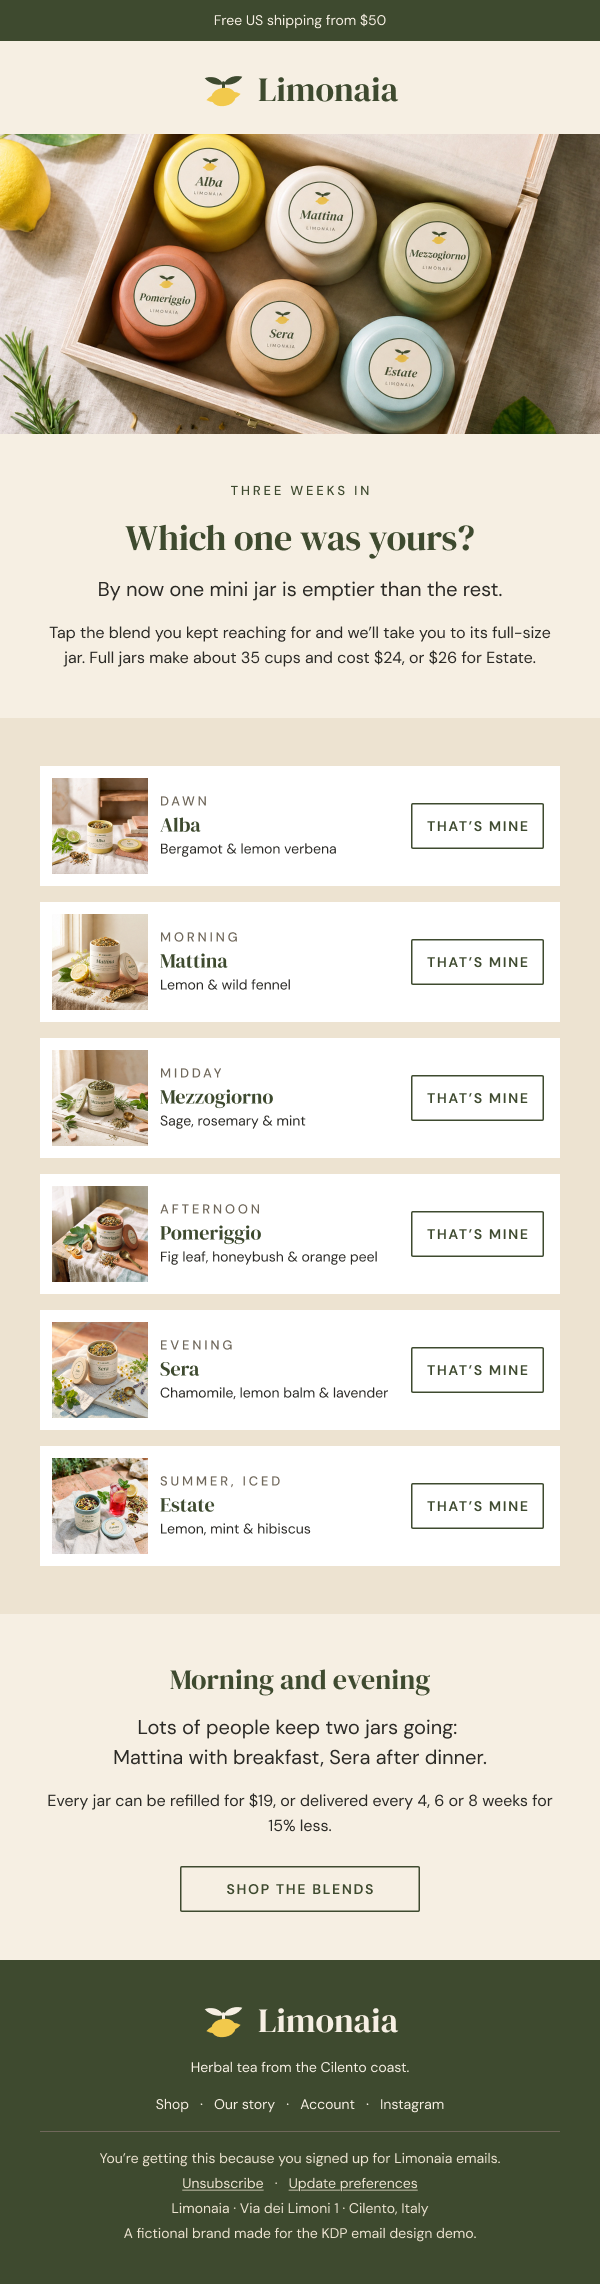
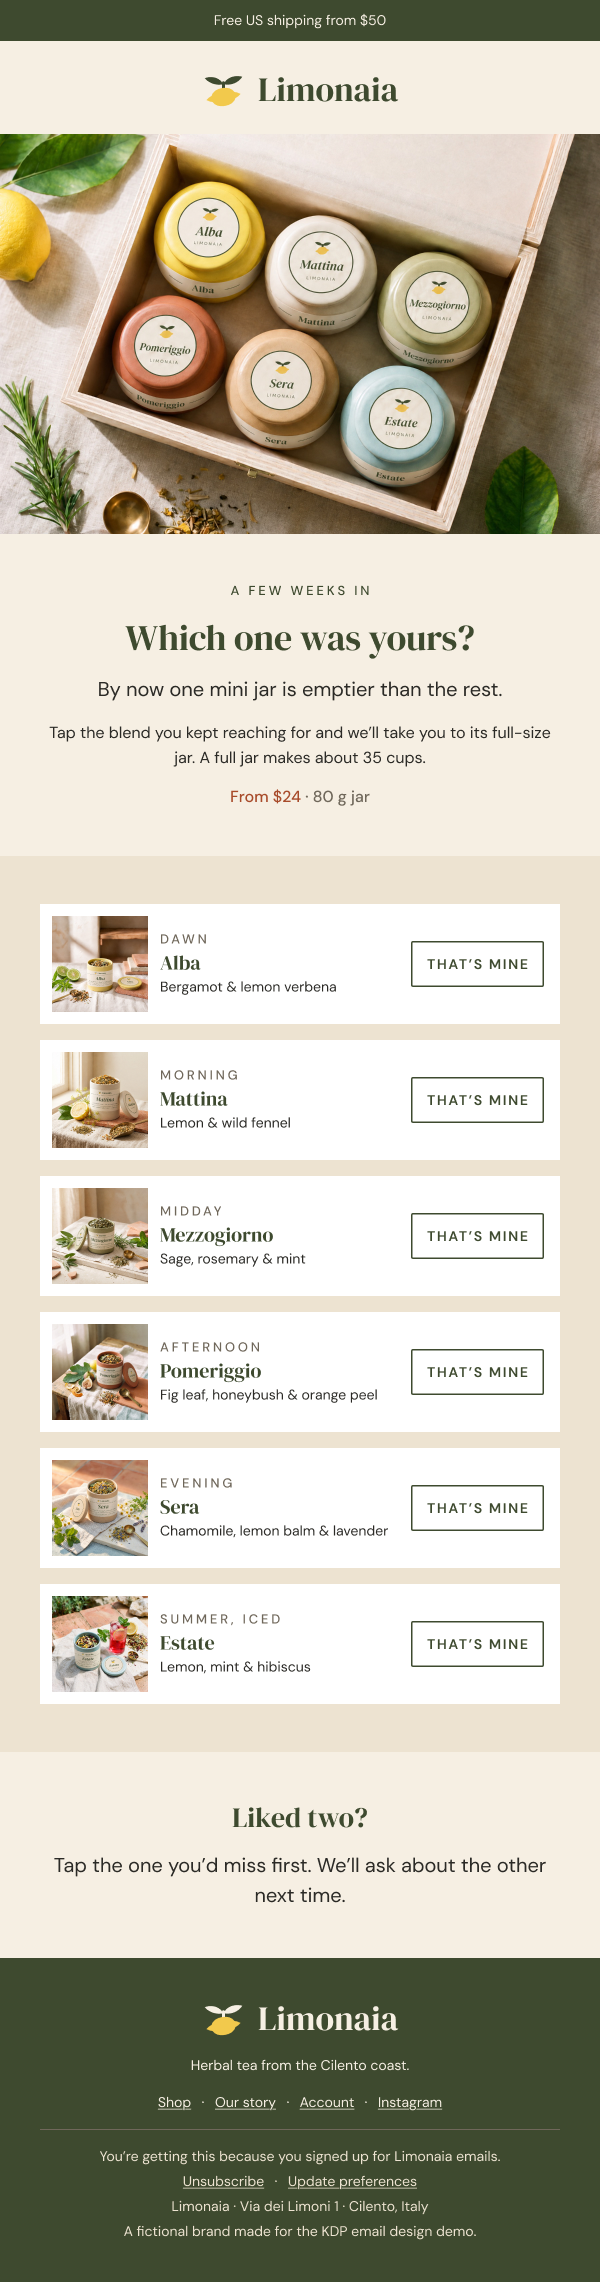
Third blind review and fixes: 79, 77, 74, 79
- Third review scored Welcome 79, Discovery 77, Refill 74, Natale 79.
  Each failed at most one narrow gate; all three are fixed:
  - Natale: the deadline heading names the US, UK date drawn as its own
    top bar variant
  - Discovery: mini jars in the discovery-set photo now carry band labels
  - Refill: off-season branch drawn (Estate to Mezzogiorno, Natale to
    Pomeriggio), seasonal blends never on subscription
- Refill simplified so each offer appears once; Welcome hero swaps
  between six jars (May to September) and five (October to April).
- Footer links rebuilt as underlined link rows; prices keep the unit in
  stone; non-breaking spaces and drawn long-name states.
- EMAIL.md: discovery-set exception, subscription rules, the extra hero.
- Corrections: rules promoted from the third review.

diff --git a/examples/limonaia/EMAIL.md b/examples/limonaia/EMAIL.md
@@ -32,15 +32,16 @@ Limonaia is a fictional brand. Use this file as a model for your own.
 | Sera (evening) | Chamomile, lemon balm, lavender | Warm sand | 80 g jar | $24 | |
 | Estate (summer, iced) | Lemon, mint, hibiscus | Pale sea blue | 80 g jar | $26 | **Seasonal, May to September** |
 | Natale (winter) | Clementine, cinnamon | Deep cinnamon red | 80 g jar | $24 | **Seasonal, November to December**, sold mostly in the gift box |
-| Refill pouch | Any blend, no jar | Paper pouch | 80 g | $19 | |
-| Discovery set | Six 15 g mini jars | All six | 90 g | $32 | The usual first purchase |
+| Refill pouch | Any blend, no jar | Paper pouch | 80 g | $19 | Estate and Natale only in season |
+| Discovery set | Six 15 g mini jars | All six | 90 g | $32 | The usual first purchase. All six minis all year, Estate included: the one exception to the seasonal rule |
 | Gift box | Three jars, a wooden box, a card | Buyer's choice | 240 g | $68 | |
-| Subscription | Any jar or refill every 4, 6 or 8 weeks | Any | Varies | 15% off | |
+| Subscription | A jar or refill of a year-round blend every 4, 6 or 8 weeks | Any | Varies | 15% off | Year-round blends only. Skip or cancel any time |
 
 - A full jar makes about 35 cups, so a daily drinker runs out in about five weeks. Every refill
   email is timed to that.
 - Free US shipping from $50.
-- Any email that runs all year needs an off-season state for Estate and Natale.
+- Any email that runs all year needs an off-season state for Estate and Natale. Seasonal blends
+  are never offered on subscription.
 
 **How to brew**
 - Hot, every blend: a heaped teaspoon (about 2 g) per cup, just-boiled water, five minutes.
@@ -84,7 +85,8 @@ Limonaia is a fictional brand. Use this file as a model for your own.
 
 - Terracotta is for buttons, links and prices only.
 - Section eyebrows are olive. Card and tile eyebrows are stone.
-- Every price uses `Label/Price` in terracotta.
+- Every price uses `Label/Price` in terracotta. A unit or note after the dot is stone:
+  "$24 · 80 g", "$68 · ships free in the US".
 - Callout boxes (offers, deadlines) are sand with no border, on a cream section.
 - Lemon appears once per email at most, as a badge. The lemon in the logo doesn't count.
 - Sea appears only in Estate emails, as one band or badge with white text (7.2:1). Never for
@@ -121,6 +123,8 @@ desktop twin.
 **Section backgrounds.** Steps carries its own sand background. The callout box puts a sand box
 inside a transparent section. The top bar and footer are olive. Every other section is
 transparent and takes the email's cream, so two of them next to each other share a background.
+The Welcome blend grid (white tiles on a sand band) is the one other sand section: a documented
+one-off, not yet a component.
 
 - **Frame parts:** `Email/Top bar` (text property), `Email/Header`, `Email/Footer`
 - **Buttons:** `Button` with Style = Primary (terracotta fill, white label) or Secondary (olive
@@ -156,6 +160,7 @@ transparent and takes the email's cream, so two of them next to each other share
 - 20 px side margins (a 335 px column), 40 px top and bottom.
 - Inside a section: 12 px between lines of copy, 24 px from the copy to its button, 20 px from a
   heading or image to what follows. Steps keep 8 px.
+- Stacked steps sit 24 px apart, stacked cards 16 px.
 - Columns stack:
   - Tiles go two across, 15 px apart.
   - Image and text stacks with the image on top.
@@ -192,7 +197,8 @@ product tile components. Every lid in every photo is flat and carries its round 
 
 | Photo | What it shows | Printed on it | Notes |
 |---|---|---|---|
-| Hero | Six labeled jars on a stone wall, lemon grove behind | All six harvest months | Includes Estate: year-round emails need an alternate |
+| Hero, six jars | Six labeled jars on a stone wall, lemon grove behind | All six harvest months | Includes Estate: May to September only in year-round emails |
+| Hero, five jars | The same scene with the five year-round jars | Five harvest months | The October to April hero for year-round emails |
 | Alba, Mattina, Mezzogiorno, Pomeriggio, Sera, Estate | One jar each with its herbs, lid off and sticker up | That blend's harvest month | Product tiles. Estate's has an iced glass: summer only |
 | Discovery set | Six 15 g mini jars in their box, lid stickers on top | Blend names | |
 | Refill | Mattina jar with a refill pouch and lemons | Raccolto giugno 2026 | |

diff --git a/examples/limonaia/corrections.md b/examples/limonaia/corrections.md
@@ -26,8 +26,13 @@ grade toward it.
 - **Seasonal products need an off-season state.** Estate (May to September) and Natale
   (November to December) never appear in a year-round flow without a conditional, or an
   alternate drawn beside the frame.
+  - Year-round heroes swap by month: the six-jar hero May to September, the five-jar hero
+    October to April, both drawn, with the swap written in the brief.
   - That covers every mention: the photo, the price, and counts like "six blends" or "any two
     blends" (second review).
+  - An off-season branch rewrites everything that depends on the missing product (headline,
+    price note, button and its link, any section that offers it) and is drawn beside the frame,
+    not only described. Seasonal blends are never offered on subscription (third review).
 - **Every jar in every photo carries its label.**
   - Jar bodies get a band label. Lids get the round sticker.
   - Photos must look like one shoot, matching the product tiles.
@@ -36,6 +41,8 @@ grade toward it.
   - A lid lying or leaning beside its jar counts, and so does anything in the background that
     reads as a jar. Fix it in the library photo, so every email that uses it is fixed at once
     (second review, 2026-10-21).
+  - Mini jars and top-down shots count too: any jar body that shows below its lid carries its
+    band (third review).
 - **A label in a photo is a claim** (cold test, brand owner's call). The harvest month printed on
   a jar has to fit the copy and the send date. Check the photo library in `EMAIL.md` before
   using a photo.
@@ -51,11 +58,19 @@ grade toward it.
   and the merge tag lives in the layer name and the brief.
 - **Dates name their market** (second review, gate). Limonaia sells to the US and the UK, so
   every arrival date and order cutoff says which country it's for, or sits in a country
-  conditional.
+  conditional. In a heading, top bar, subject or badge, the country is on the same line: a
+  qualifier in the next sentence doesn't count (third review).
 - **Sample lines in `EMAIL.md` are tone examples.** Never reuse one word for word as a headline,
   subject or preview (second review).
 - **The brief carries written alt text** for every image. A checklist line saying "alt text
-  needed" is a miss (second review).
+  needed" is a miss (second review). An image that swaps gets one line per version (third
+  review).
+- **Dynamic copy is drawn at its longest** (third review). Every layer that changes per person or
+  per product carries its tag in the layer name, the last two words of a dynamic headline are
+  joined with a non-breaking space, and the long version (a long first name, Mezzogiorno) is
+  drawn beside the frame.
+- **Each offer appears once** (brand owner's call, third review). The same price and button don't
+  repeat in two sections.
 - **Copy hygiene.**
   - **Gate (second review):** no hard line breaks, including line breaks inside component text
     properties. Split into separate text layers.

diff --git a/examples/limonaia/README.md b/examples/limonaia/README.md
@@ -67,7 +67,14 @@ Everything here was designed with the skills in this repo, then reviewed blind, 
    - a seasonal blend counted in "any two blends"
 
    The lids were fixed once, in the photo library, which fixed every email and the website.
-10. **Audit.** The file scores 100 on [`figma-email-readiness`](../../skills/figma-email-readiness).
+10. **Third blind review.** After those fixes: 79, 77, 74, 79. Each email failed at most one
+    narrow gate:
+    - a deadline heading without "US"
+    - mini jars in the discovery-set photo with no band labels
+    - an off-season version of the refill email that was only described, not drawn
+
+    All three were fixed, and Refill was simplified so each offer appears once.
+11. **Audit.** The file scores 100 on [`figma-email-readiness`](../../skills/figma-email-readiness).
 
 ## What we learned
 
@@ -89,7 +96,8 @@ looked fine until it sat next to labeled product tiles. Then it looked like a di
 None of it would have survived a send.
 
 **A better rulebook finds deeper problems.** The second review came after every first-round fix,
-and the scores barely moved: 61 to 67, 64 to 63, 63 to 63, 64 to 69. The critics had more rules to
+and the scores barely moved: 61 to 67, 64 to 63, 63 to 63, 64 to 69. The third review, after the
+photo and claim fixes, moved them to 79, 77, 74 and 79. The critics had more rules to
 check, and the spacing and contrast misses were gone, so they found claims and photos instead. A
 score only means something next to the rules it was graded against.
 

diff --git a/README.md b/README.md
@@ -49,7 +49,7 @@ Limonaia is a fictional herbal tea brand from the Cilento coast in southern Ital
   - a price claim that was wrong for one product
   - a badge spilling out of its card
 - **Fixes and rules.** Every miss was fixed. The repeated ones became rules in the [corrections log](examples/limonaia/corrections.md).
-- **Second blind review.** After the fixes, new critics scored the emails 67, 63, 63 and 69, and every one still failed a gate, mostly on photos and claims. The details are in [the example](examples/limonaia).
+- **Second and third blind reviews.** After the first fixes, new critics scored the emails 67, 63, 63 and 69, and every one still failed a gate, mostly on photos and claims. After those fixes, the third round scored 79, 77, 74 and 79. The details are in [the example](examples/limonaia).
 - **Audit.** The finished file scores 100 on the readiness audit.
 - **Cold test.** A fresh Claude session, given only this repo, designed a fifth email from a brief. A blind review scored it 65 and failed it on one claim: the jar label in the photo said July 2026, and the copy promised this year's harvest for a May 2027 send. Both the builder's friction log and the review went back into these files.
 
